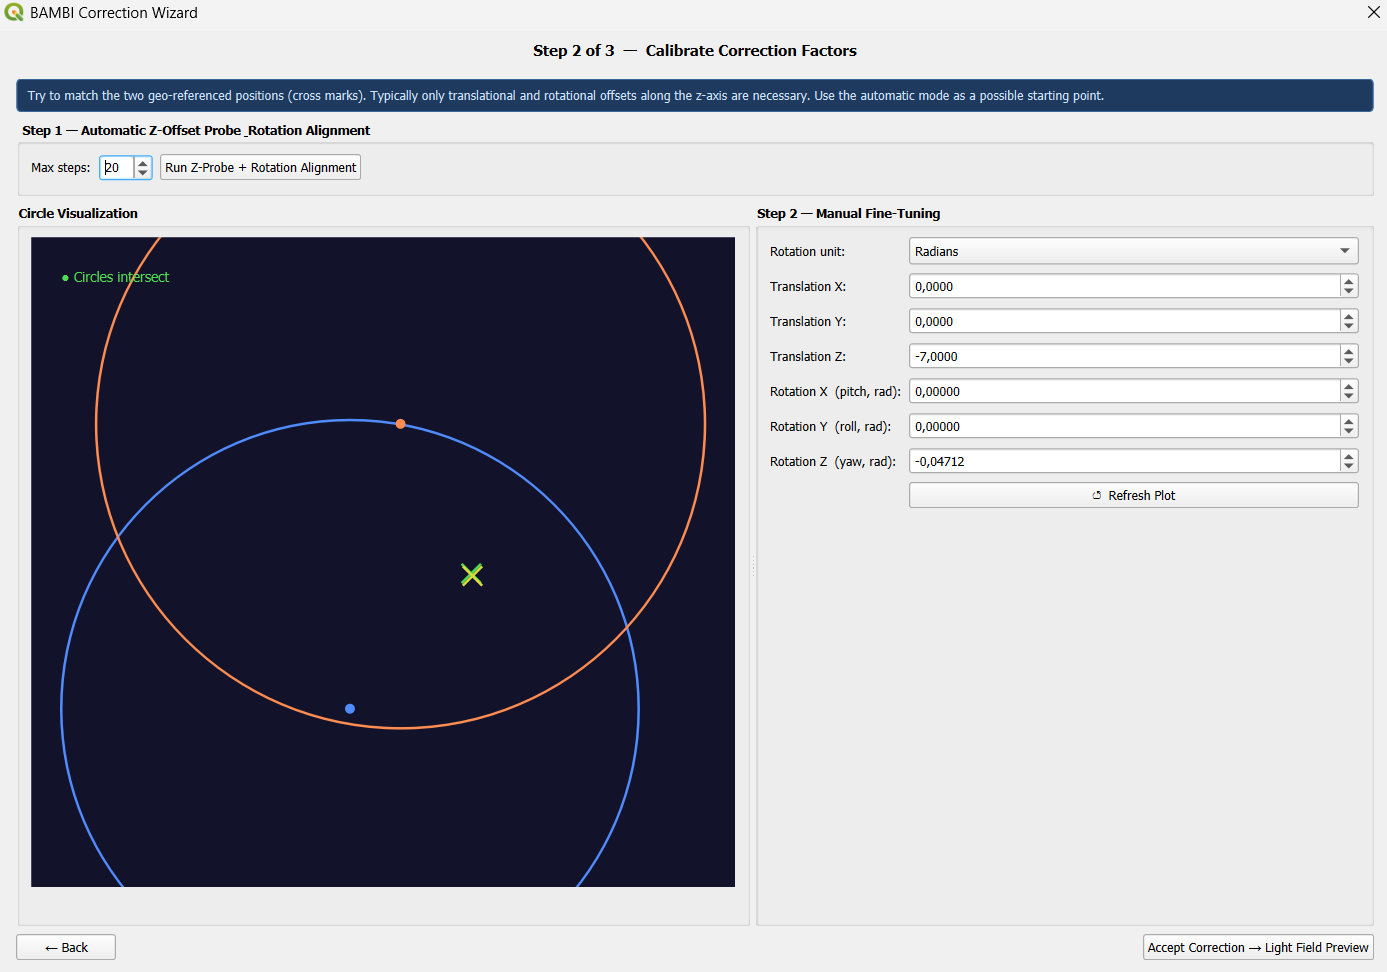
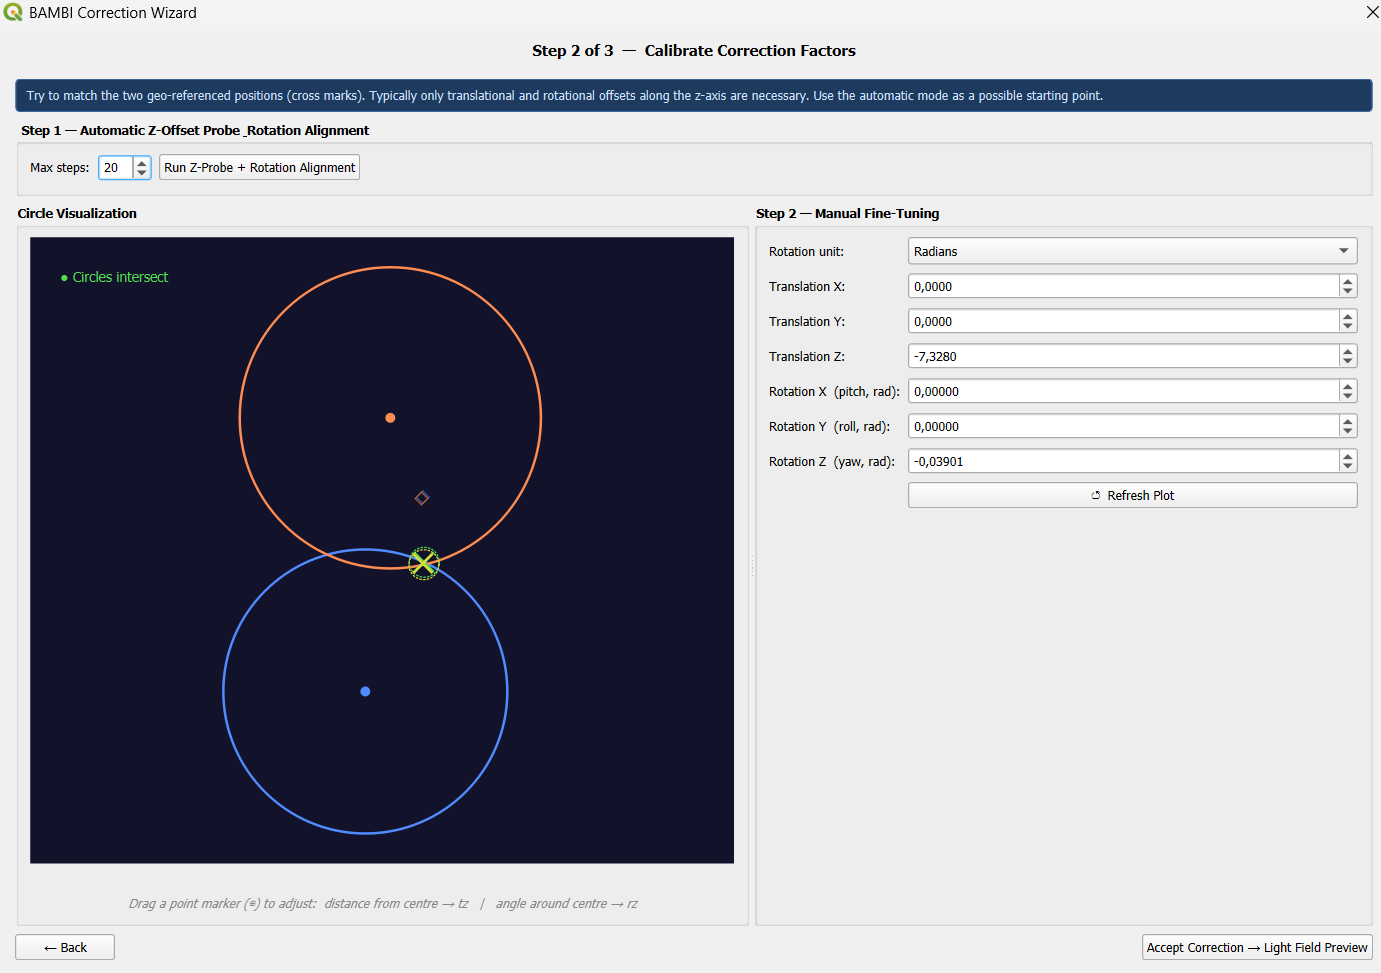
Updating readme

diff --git a/README.md b/README.md
@@ -515,16 +515,17 @@ The Correction Calibration Wizard helps you find and store the positional and ro
 
 #### Step 1 — Select Corresponding Ground Points
 
-Two side-by-side frame views (thermal or RGB) are shown. Load a frame for each side using the type selector and frame index, then **click on the same identifiable ground feature** in both images to place a reference point.
+Two side-by-side frame views (thermal or RGB) are shown. Load a frame for each side using the type selector and frame index, then **click on the same identifiable ground feature** in both images to place a corresponding point for matching.
 
 - Any clearly visible fixed object on the ground works (road marking, building corner, etc.)
+- With the "Reference Points Mode" you can add additional (optional) points for visually evaluate the match.
 - The "Next" button is enabled once both points are placed and the DEM has finished loading
 
 ![Correction Wizard Step 1](images/correction_wizard_step1.png)
 
 #### Step 2 — Calibration
 
-The two selected pixels are geo-referenced onto the DEM and visualized as circle markers in the **Circle Visualization** panel. Each circle is centred on the camera's XY position; the radius is the horizontal distance from the camera to the geo-referenced ground point. When the correction is correct the two circles intersect and the cross markers (×) overlap.
+The two selected points for matching are geo-referenced onto the DEM and visualized as circle markers in the **Circle Visualization** panel. Each circle is centred on the camera's XY position; the radius is the horizontal distance from the camera to the geo-referenced ground point. When the correction is correct the two circles intersect and the cross markers (×) as well as the additional visual reference points overlap.
 
 ![Correction Wizard Step 2](images/correction_wizard_step2.png)
 
@@ -533,7 +534,7 @@ The two selected pixels are geo-referenced onto the DEM and visualized as circle
 Click **Run Z-Probe + Rotation Alignment** to let the wizard find a starting correction automatically:
 
 1. **Z-offset probe**: steps the z-translation in ±1 m increments until the two circles transition from non-intersecting to intersecting
-2. **Yaw alignment sweep**: scans 360 candidate yaw values and picks the one that minimises the distance between the two geo-referenced points
+2. **Yaw alignment sweep**: scans 360 candidate yaw values and picks the one that minimises the distance between the two geo-referenced match points
 
 #### Manual Fine-Tuning
 
